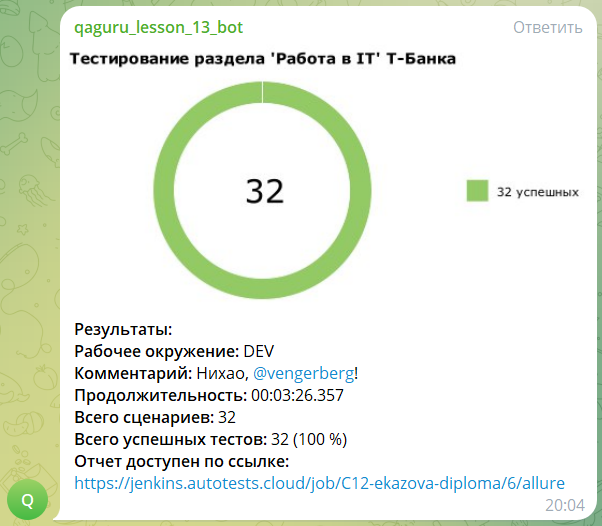
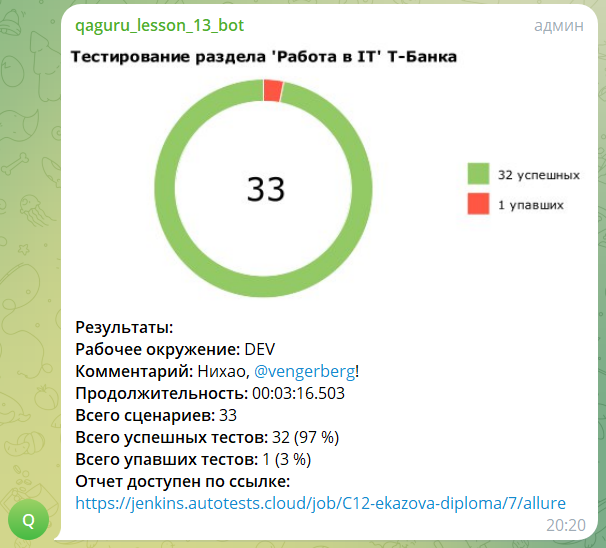
refactor: Обновление README.md

diff --git a/README.md b/README.md
@@ -134,13 +134,21 @@ allure serve tests/allure-results
 
 ![Отчет в Allure](/readme/allure_3.gif)
 
-Также после прохождения тестов в Jenkins, они автоматически импортируются в виде тест-кейсов в Allure TestOps
+Также после прохождения тестов в Jenkins, они автоматически импортируются в виде тест-кейсов в Allure TestOps:
 
 ![Тест-кейсы в Allure TestOps](/readme/allure_testops_1.png)
 
 Там же хранятся ручные тест-кейсы:
 
 ![Тест-кейсы в Allure TestOps](/readme/allure_testops_2.png)
+
+В проекте также есть пример упавшего теста:
+
+![Упавший тест](/readme/allure_testops_3.png)
+
+Не волнуйтесь, на него уже заведён баг:
+
+![Упавший тест в Jira](/readme/jira_1.png)
 
 ### Telegram
 
